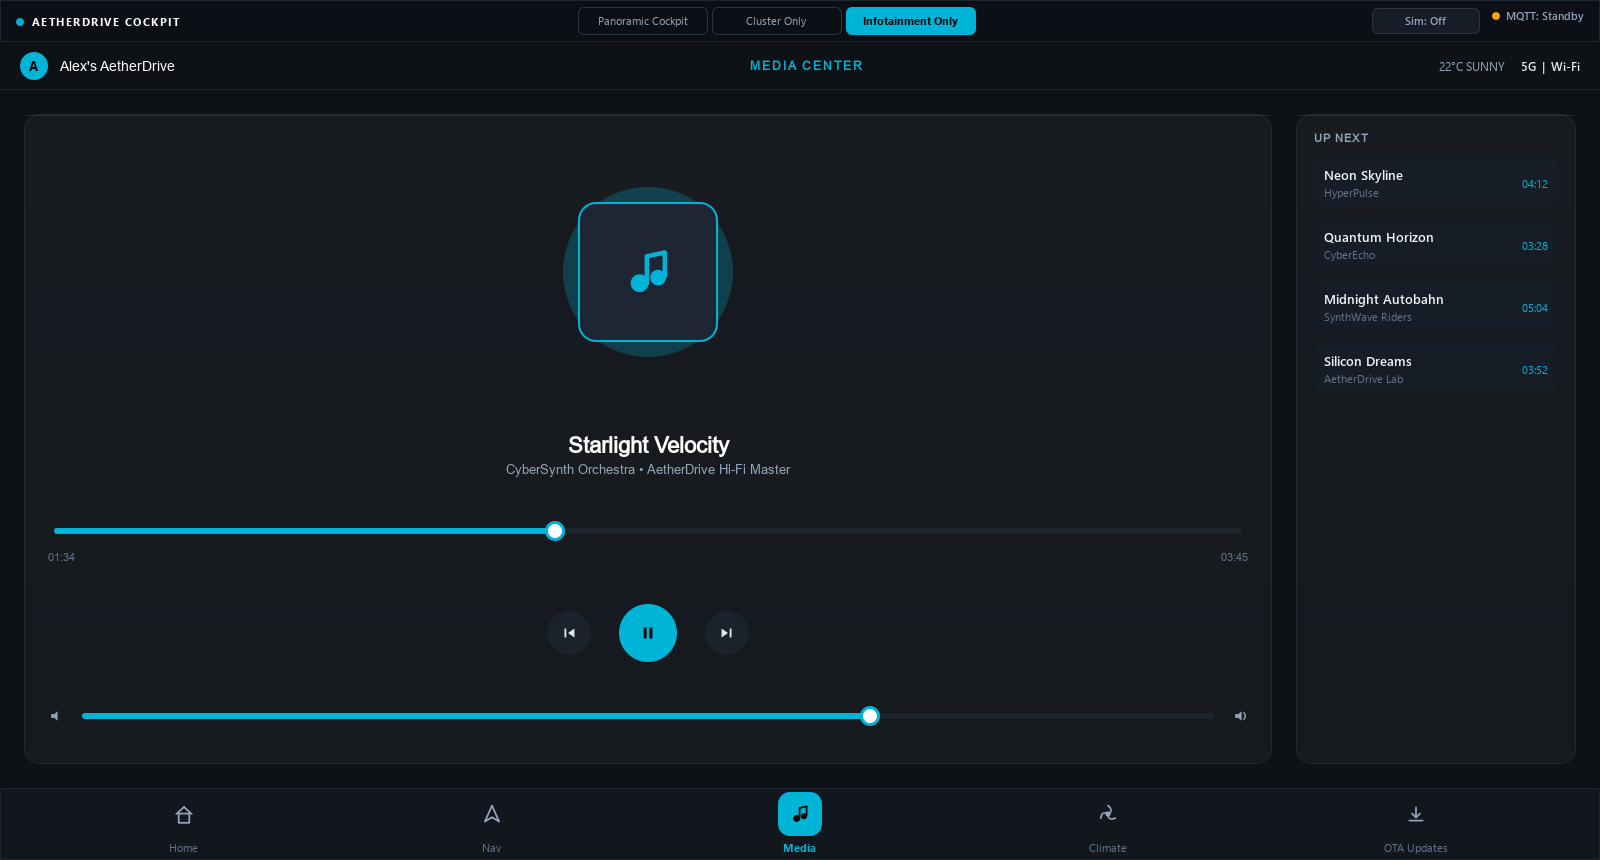
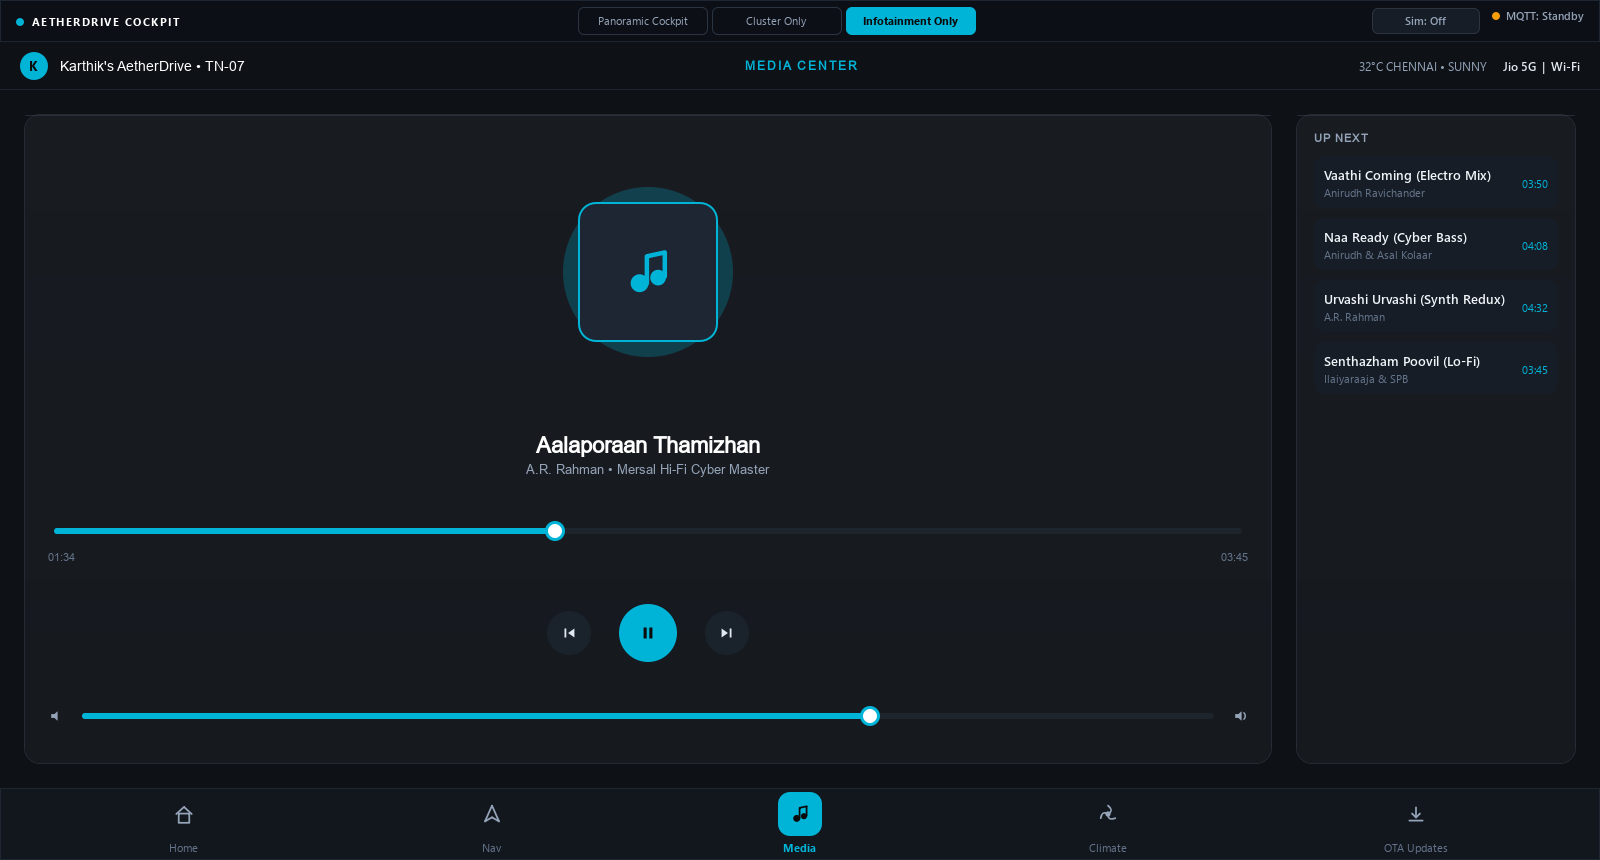
feat(hmi): adapt cockpit for Tamil Nadu (Chennai OMR nav, tropical climate, Jio 5G, iconic regional audio)

diff --git a/hmi/qml/infotainment/HomeScreen.qml b/hmi/qml/infotainment/HomeScreen.qml
@@ -22,14 +22,14 @@ Item {
             Column {
                 spacing: 2
                 Text {
-                    text: "Welcome back, Alex"
+                    text: "Vanakkam, Karthik"
                     font.pixelSize: 24
                     font.weight: Font.Bold
                     font.family: "Segoe UI, Inter, sans-serif"
                     color: root.isNightMode ? "#FFFFFF" : "#0F172A"
                 }
                 Text {
-                    text: "AetherDrive SDV Platform • All vehicle systems nominal"
+                    text: "AetherDrive SDV • Tamil Nadu Connected Network • All systems nominal"
                     font.pixelSize: 13
                     font.family: "Segoe UI, Inter, sans-serif"
                     color: root.isNightMode ? "#94A3B8" : "#64748B"
@@ -56,7 +56,7 @@ Item {
                         anchors.verticalCenter: parent.verticalCenter
                     }
                     Text {
-                        text: "5G LTE CONNECTED"
+                        text: "JIO 5G CONNECTED"
                         font.pixelSize: 10
                         font.weight: Font.Bold
                         font.letterSpacing: 1
@@ -114,7 +114,7 @@ Item {
                     }
 
                     Text {
-                        text: "Tech Innovation Hub"
+                        text: "Tidel Park IT Corridor"
                         font.pixelSize: root.width < 500 ? 16 : 19
                         font.weight: Font.Bold
                         font.family: "Segoe UI, Inter, sans-serif"
@@ -124,7 +124,7 @@ Item {
                     }
 
                     Text {
-                        text: "In 400m turn right onto Quantum Boulevard"
+                        text: "In 400m turn right onto Rajiv Gandhi Salai (OMR)"
                         font.pixelSize: root.width < 500 ? 11 : 13
                         font.family: "Segoe UI, Inter, sans-serif"
                         color: root.isNightMode ? "#94A3B8" : "#64748B"
@@ -196,7 +196,7 @@ Item {
                             Layout.fillWidth: true
                             spacing: 2
                             Text {
-                                text: "Starlight Velocity"
+                                text: "Aalaporaan Thamizhan"
                                 font.pixelSize: root.width < 500 ? 15 : 17
                                 font.weight: Font.Bold
                                 font.family: "Segoe UI, Inter, sans-serif"
@@ -205,7 +205,7 @@ Item {
                                 width: parent.width
                             }
                             Text {
-                                text: "CyberSynth Orchestra • Hi-Res Audio"
+                                text: "A.R. Rahman • Mersal Cyber Mix"
                                 font.pixelSize: root.width < 500 ? 11 : 12
                                 font.family: "Segoe UI, Inter, sans-serif"
                                 color: root.isNightMode ? "#94A3B8" : "#64748B"
@@ -255,7 +255,7 @@ Item {
                         }
                         Item { Layout.fillWidth: true }
                         Text {
-                            text: "AUTO AC ON"
+                            text: "32°C OUTSIDE"
                             font.pixelSize: 11
                             font.weight: Font.Bold
                             font.family: "Segoe UI, Inter, sans-serif"
@@ -275,7 +275,7 @@ Item {
                                 color: root.isNightMode ? "#64748B" : "#94A3B8"
                             }
                             Text {
-                                text: "21.5°C"
+                                text: "20.5°C"
                                 font.pixelSize: root.width < 500 ? 18 : 22
                                 font.weight: Font.Bold
                                 color: root.isNightMode ? "#FFFFFF" : "#0F172A"
@@ -296,7 +296,7 @@ Item {
                                 color: root.isNightMode ? "#64748B" : "#94A3B8"
                             }
                             Text {
-                                text: "22.0°C"
+                                text: "21.0°C"
                                 font.pixelSize: root.width < 500 ? 18 : 22
                                 font.weight: Font.Bold
                                 color: root.isNightMode ? "#FFFFFF" : "#0F172A"
@@ -335,7 +335,7 @@ Item {
                             iconColor: "#10B981"
                         }
                         Text {
-                            text: root.width < 500 ? "SDV STATUS" : "SOFTWARE DEFINED VEHICLE"
+                            text: root.width < 500 ? "SDV STATUS" : "SDV INDIA CONNECT"
                             font.pixelSize: 11
                             font.weight: Font.DemiBold
                             font.letterSpacing: 1
@@ -357,7 +357,7 @@ Item {
                     }
 
                     Text {
-                        text: "Enhanced autonomous lane assist & cockpit visualizer"
+                        text: "Optimized for Indian EV highways & regenerative traffic assist"
                         font.pixelSize: root.width < 500 ? 11 : 12
                         font.family: "Segoe UI, Inter, sans-serif"
                         color: root.isNightMode ? "#94A3B8" : "#64748B"

diff --git a/hmi/qml/infotainment/MediaScreen.qml b/hmi/qml/infotainment/MediaScreen.qml
@@ -126,7 +126,7 @@ Item {
 
                     Text {
                         anchors.horizontalCenter: parent.horizontalCenter
-                        text: "Starlight Velocity"
+                        text: "Aalaporaan Thamizhan"
                         font.pixelSize: 22
                         font.weight: Font.Bold
                         font.family: "Segoe UI, Inter, sans-serif"
@@ -135,7 +135,7 @@ Item {
 
                     Text {
                         anchors.horizontalCenter: parent.horizontalCenter
-                        text: "CyberSynth Orchestra • AetherDrive Hi-Fi Master"
+                        text: "A.R. Rahman • Mersal Hi-Fi Cyber Master"
                         font.pixelSize: 13
                         font.family: "Segoe UI, Inter, sans-serif"
                         color: root.isNightMode ? "#94A3B8" : "#64748B"
@@ -306,10 +306,10 @@ Item {
                     spacing: 10
 
                     model: [
-                        { title: "Neon Skyline", artist: "HyperPulse", duration: "04:12" },
-                        { title: "Quantum Horizon", artist: "CyberEcho", duration: "03:28" },
-                        { title: "Midnight Autobahn", artist: "SynthWave Riders", duration: "05:04" },
-                        { title: "Silicon Dreams", artist: "AetherDrive Lab", duration: "03:52" }
+                        { title: "Vaathi Coming (Electro Mix)", artist: "Anirudh Ravichander", duration: "03:50" },
+                        { title: "Naa Ready (Cyber Bass)", artist: "Anirudh & Asal Kolaar", duration: "04:08" },
+                        { title: "Urvashi Urvashi (Synth Redux)", artist: "A.R. Rahman", duration: "04:32" },
+                        { title: "Senthazham Poovil (Lo-Fi)", artist: "Ilaiyaraaja & SPB", duration: "03:45" }
                     ]
 
                     delegate: Rectangle {

diff --git a/hmi/qml/cluster/ClusterView.qml b/hmi/qml/cluster/ClusterView.qml
@@ -13,11 +13,11 @@ Rectangle {
     property int range: 350
     property string gear: "P"
     property bool doorLocked: true
-    property real speedLimit: 100.0
+    property real speedLimit: 80.0
     property string driveMode: "NORMAL"
     property bool laneDeparture: false
     property string alertMessage: ""
-    property string currentTime: "14:30"
+    property string currentTime: Qt.formatTime(new Date(), "hh:mm")
     property bool isNightMode: true
 
     // Theme color palette
@@ -70,7 +70,7 @@ Rectangle {
                 }
 
                 Text {
-                    text: "21°C"
+                    text: "32°C"
                     font.pixelSize: 13
                     font.weight: Font.Medium
                     font.family: "Segoe UI, Inter, sans-serif"
@@ -295,7 +295,7 @@ Rectangle {
                 Layout.alignment: Qt.AlignHCenter | Qt.AlignVCenter
 
                 Text {
-                    text: "ODO 14,820 KM"
+                    text: "ODO 18,450 KM"
                     font.pixelSize: 11
                     font.weight: Font.DemiBold
                     font.letterSpacing: 1.0
@@ -310,7 +310,7 @@ Rectangle {
                 }
 
                 Text {
-                    text: "TRIP 142.5 KM"
+                    text: "TRIP 86.4 KM"
                     font.pixelSize: 11
                     font.weight: Font.DemiBold
                     font.letterSpacing: 1.0
@@ -326,7 +326,7 @@ Rectangle {
                 Layout.alignment: Qt.AlignRight | Qt.AlignVCenter
 
                 Text {
-                    text: "SDV PLATFORM"
+                    text: "TN CONNECTED SDV"
                     font.pixelSize: 10
                     font.weight: Font.Bold
                     font.letterSpacing: 1.0

diff --git a/hmi/qml/infotainment/InfotainmentView.qml b/hmi/qml/infotainment/InfotainmentView.qml
@@ -44,7 +44,7 @@ Rectangle {
                         anchors.verticalCenter: parent.verticalCenter
                         Text {
                             anchors.centerIn: parent
-                            text: "A"
+                            text: "K"
                             font.pixelSize: 13
                             font.weight: Font.Bold
                             color: "#0A0A0A"
@@ -52,7 +52,7 @@ Rectangle {
                     }
 
                     Text {
-                        text: "Alex's AetherDrive"
+                        text: "Karthik's AetherDrive • TN-07"
                         font.pixelSize: 14
                         font.weight: Font.DemiBold
                         font.family: "Segoe UI, Inter, sans-serif"
@@ -90,7 +90,7 @@ Rectangle {
                     Layout.alignment: Qt.AlignVCenter
 
                     Text {
-                        text: "22°C SUNNY"
+                        text: "32°C CHENNAI • SUNNY"
                         font.pixelSize: 12
                         font.weight: Font.Medium
                         color: root.isNightMode ? "#94A3B8" : "#64748B"
@@ -98,7 +98,7 @@ Rectangle {
                     }
 
                     Text {
-                        text: "5G  |  Wi-Fi"
+                        text: "Jio 5G  |  Wi-Fi"
                         font.pixelSize: 12
                         font.weight: Font.DemiBold
                         color: root.isNightMode ? "#E2E8F0" : "#1E293B"

diff --git a/hmi/qml/infotainment/ClimateScreen.qml b/hmi/qml/infotainment/ClimateScreen.qml
@@ -8,16 +8,16 @@ Item {
 
     property bool isNightMode: true
     property color accentColor: "#00B4D8"
-    property real driverTemp: 21.5
-    property real passengerTemp: 22.0
-    property int fanSpeed: 3
+    property real driverTemp: 20.5
+    property real passengerTemp: 21.0
+    property int fanSpeed: 4
     property bool autoAc: true
     property bool acEnabled: true
-    property bool recirculate: false
+    property bool recirculate: true
     property bool frontDefrost: false
     property bool rearDefrost: false
-    property int driverSeatHeat: 2     // 0: off, 1: low, 2: med, 3: high
-    property int passengerSeatHeat: 1
+    property int driverSeatHeat: 0     // 0: off, 1: low, 2: med, 3: high
+    property int passengerSeatHeat: 0
 
     ColumnLayout {
         anchors.fill: parent
@@ -28,7 +28,7 @@ Item {
         RowLayout {
             Layout.fillWidth: true
             Text {
-                text: "CLIMATE CONTROL SYSTEM"
+                text: "CLIMATE CONTROL • TROPICAL COOLING"
                 font.pixelSize: 13
                 font.weight: Font.Bold
                 font.letterSpacing: 1.5
@@ -36,7 +36,7 @@ Item {
             }
             Item { Layout.fillWidth: true }
             Text {
-                text: "CABIN TEMP: 21.8°C"
+                text: "OUTSIDE: 32.4°C • CHENNAI"
                 font.pixelSize: 13
                 font.weight: Font.Bold
                 color: root.accentColor

diff --git a/hmi/qml/infotainment/NavigationScreen.qml b/hmi/qml/infotainment/NavigationScreen.qml
@@ -172,7 +172,7 @@ Item {
                     color: root.isNightMode ? "#FFFFFF" : "#0F172A"
                 }
                 Text {
-                    text: "Then take Cyberway Boulevard toward Tech Hub"
+                    text: "Take Rajiv Gandhi Salai (OMR) toward Tidel Park"
                     font.pixelSize: 12
                     font.family: "Segoe UI, Inter, sans-serif"
                     color: root.isNightMode ? "#94A3B8" : "#64748B"
@@ -186,14 +186,14 @@ Item {
                 spacing: 2
 
                 Text {
-                    text: "18 MIN • 14.2 KM"
+                    text: "16 MIN • 11.8 KM"
                     font.pixelSize: 15
                     font.weight: Font.Bold
                     font.family: "Segoe UI, Inter, sans-serif"
                     color: root.accentColor
                 }
                 Text {
-                    text: "ETA 14:48 • On Time"
+                    text: "ETA 15:52 • Chennai Traffic Normal"
                     font.pixelSize: 12
                     font.family: "Segoe UI, Inter, sans-serif"
                     color: "#10B981"

diff --git a/simulator/vehicle_simulator.py b/simulator/vehicle_simulator.py
@@ -24,13 +24,13 @@ class VehicleSimulator:
 
         # Vehicle state
         self.speed = 0.0          # km/h
-        self.target_speed = 75.0  # cruising target
+        self.target_speed = 68.0  # cruising target
         self.rpm = 800            # RPM
         self.battery = 88.0       # %
         self.range_km = 360       # km
         self.gear = "P"           # P, R, N, D
         self.door_locked = True
-        self.speed_limit = 100
+        self.speed_limit = 80
         self.drive_mode = "NORMAL"
         self.lane_departure = False
         self.alert_msg = ""
